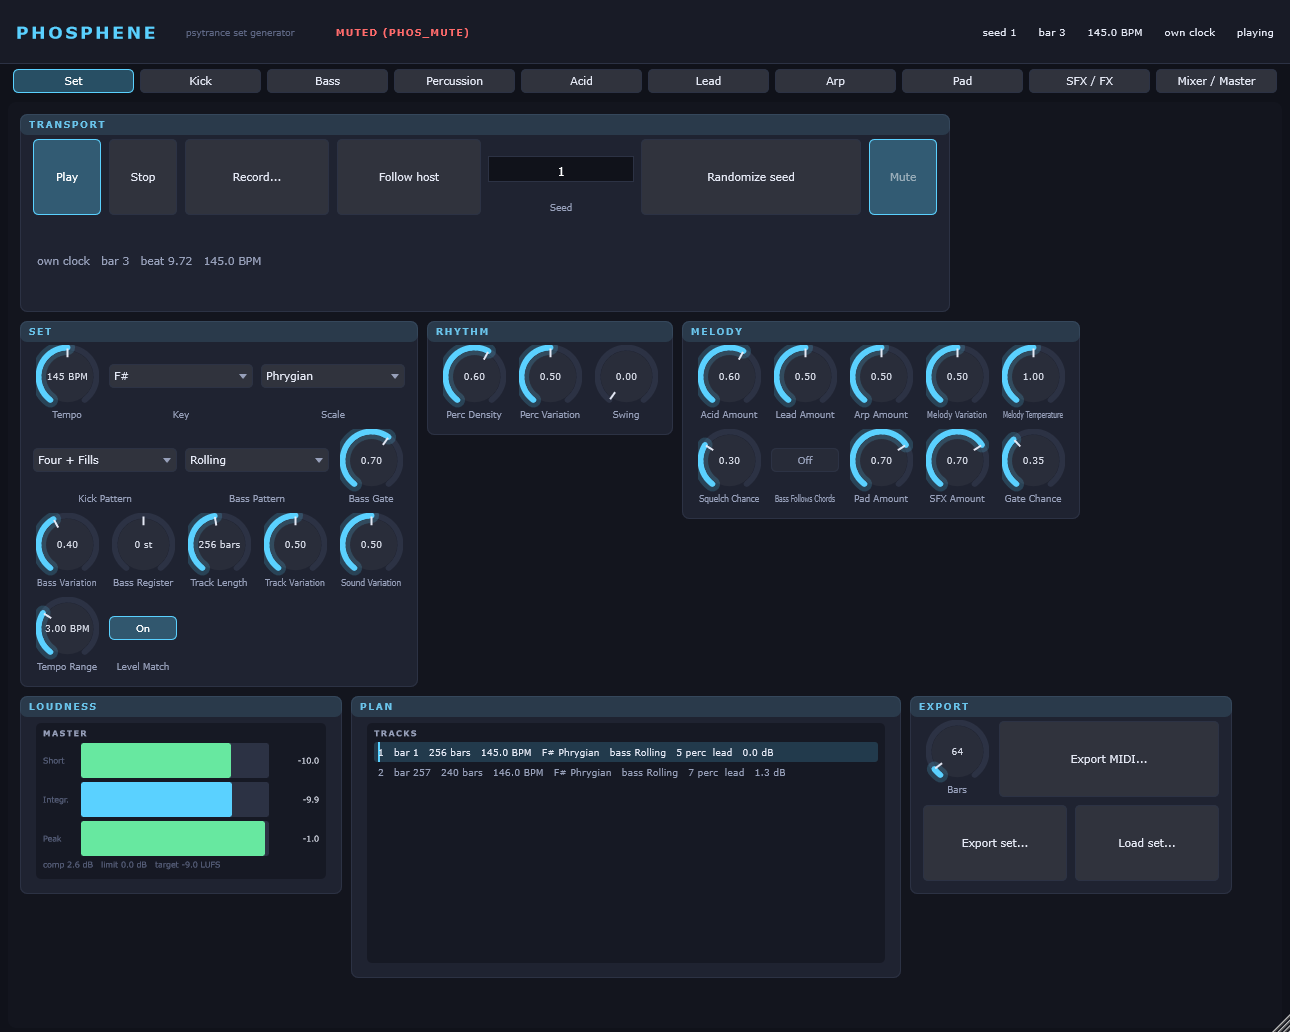
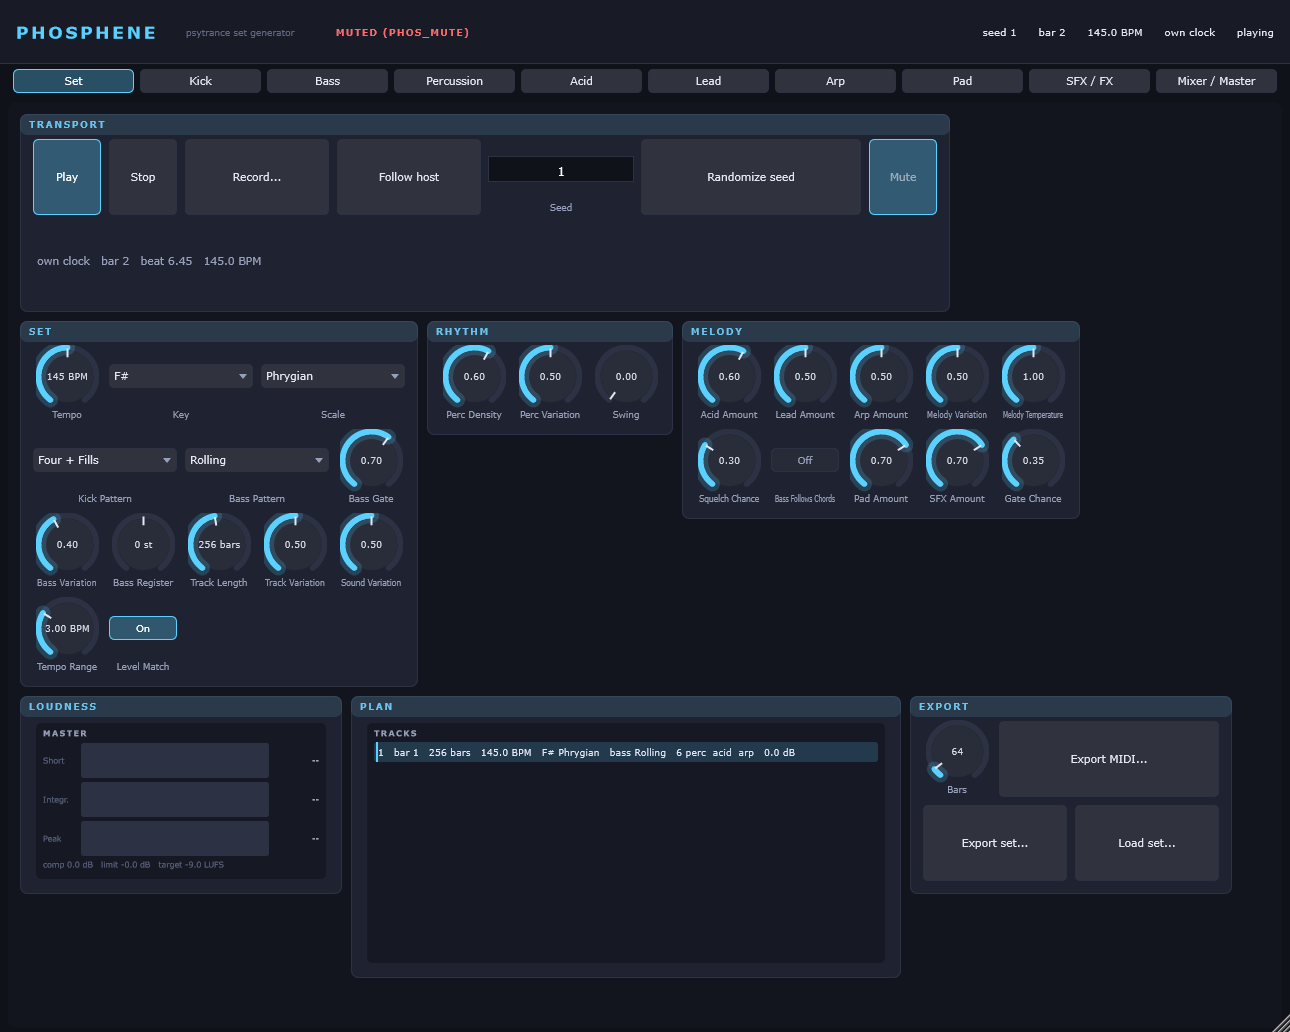
Plan: the night's merges, the intro finding in the plugin tests; screenshots regenerated with the Phase 5 controls

diff --git a/docs/PLAN.md b/docs/PLAN.md
@@ -353,8 +353,8 @@ Prüfungen, die jetzt in einem Core statt in Takt 0 messen müssen (Phasenkopplu
 deshalb bis dorthin rendern. Beide sind so eingestellt, dass sie nur rendern, was sie messen: ohne
 Melodik, und die Phasenkopplung sucht sich den ersten Seed mit einem achttaktigen Intro.
 
-Nächster Schritt: Phase 6 (JUCE-Plugin) und Phase 7 (Quest-Build) laufen in eigenen Arbeitsbäumen;
-danach Phase 8 (Transformer) und Phase 9 (Qualität). Offen aus Phase 5: die Profil-Reise (Morph
+Nächster Schritt (Stand nach Phase 5): Phase 6 und 7 sind in derselben Nacht in eigenen Arbeitsbäumen
+entstanden und gemergt (Blöcke unten); danach Phase 8 (Transformer) und Phase 9 (Qualität). Offen aus Phase 5: die Profil-Reise (Morph
 zwischen Stilprofilen über das Set), der Ranker aus 6.9, Stems je Erzeuger und das Ausrollen der
 Partitur in die `.phosset`-Datei.
 
@@ -659,6 +659,27 @@ Weitere bewusste Abweichungen:
 Nächster Schritt für Phase 6: Arrange-Zeitleiste über das ganze Set (PLAN 8.1), Perform-Makros,
 Handbuch-Generator; und nach dem Merge von Phase 5 die Kopplung an `.phosset` und die Stilprofile.
 
+**16.09.2026, Nachtlauf zusammengeführt (Koordination).** Vier Arbeitsbäume von master 5099ffd, jeder mit
+eigenem Agenten, in dieser Reihenfolge nach master gemergt und gepusht: Phase 7 (233f7d8), DSP-Qualität
+(6a072df), Unisono-Nachtrag (b5d00bd), Phase 5 (2cf8858), Phase 6 (ac15f13). Konflikte gab es nur in
+`docs/PLAN.md`, `README.md`, `Tools/render/main.cpp` und `.gitignore`; alle Blöcke sind erhalten. Stand:
+**178 Selbsttest-Prüfungen, Vektortests 9 von 9 in drei Pfaden, Hosttest 74 von 74, VST3-Test 28 von 28**,
+`ctest` 6 von 6.
+
+Ein Merge-Befund: Phase 6 hatte gegen den Stand vor Phase 5 getestet. Die Form-Grammatik beginnt jeden
+Track mit einem Intro, dessen erste vier Takte nur Atmosphäre tragen (Kick ab Takt 5 bis 9); Host- und
+VST3-Test verglichen und zählten ab Takt 0 und fanden Stille. Die Tests messen jetzt ab Takt 8 (Orakel über
+acht Takte, Live-Pfad) bzw. ab Takt 16 (Notenzahl am Host-Playhead). Das Plugin selbst war unverändert
+korrekt: bitgleich zu `phos_render`. Zweiter Befund: der Hosttest darf nicht unter `PHOS_MUTE=1` laufen
+(dieselbe Lehre wie bei Noctuary), das Plugin bleibt dann absichtlich stumm.
+
+Die Bildschirmfotos in `docs/screenshots/` sind nach dem Merge neu erzeugt, damit die Phase-5-Knöpfe
+(Style, Arc, Style Tempo, Set Minutes) darauf erscheinen; die Oberfläche generiert sich aus den Tabellen,
+deshalb war dafür keine Codeänderung nötig.
+
+Nächster Schritt: Phase 8 (Tokenisierung, Transformer gegen SSM per Held-out-NLL, C++-Inferenz) und Phase 9
+(Hörrunden je Erzeuger, pluginval, Gerätemessung auf der Quest, Arrange-Zeitleiste, Nachkalibrierung der
+Präsenz um 2,4 dB, Release).
 ## 0. Kurzfassung
 
 Ein Instrument, das aus einem Seed, einem Stilprofil und einem Energiebogen ein komplettes

diff --git a/README.md b/README.md
@@ -7,7 +7,7 @@ there are no samples.
 
 The design and the literature behind each building block are in [docs/PLAN.md](docs/PLAN.md) (German).
 
-**Status:** Phases 0 to 5 are done: framework, kick and rolling bass, a twelve-lane percussion kit,
+**Status:** Phases 0 to 7 are done: framework, kick and rolling bass, a twelve-lane percussion kit,
 the melodic layer (an acid voice on a diode ladder with accent, slide and squelch; a polyphonic
 supersaw/VA/FM/wavetable engine for lead, arp and pads; chords, riffs, phrases and arps drawn from
 statistics of a local MIDI corpus under musical constraints), the space and the master (wavetable pads
